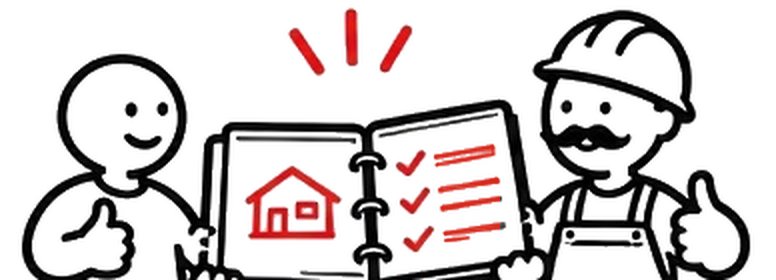
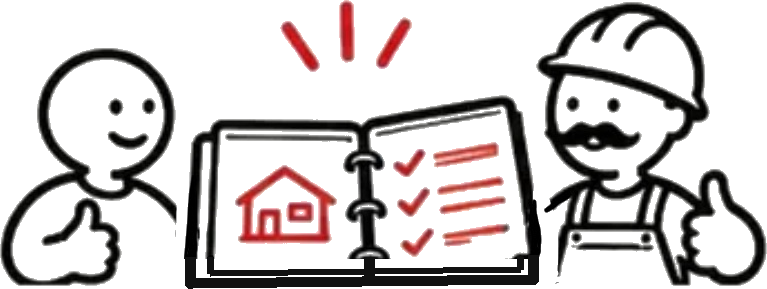
Draft: cleaned binder bottom in Instructions figure
Claude-Session: https://claude.ai/code/session_01EwRfVRwqpTJVtze869hkia

diff --git a/services/apartment-design/index.html b/services/apartment-design/index.html
@@ -57,7 +57,7 @@
     <h2 class="s-12">Идея, картинка или инструкция</h2>
     <div class="s-4 gains pkg-card"><figure class="pkg-ill"><img src="../../assets/img/pkg/fig-idea.png" alt="" width="199" height="121" style="width:199px"></figure><h3 class="pkg-name">Идея</h3><p class="pkg-subt">Рисуем, как вы будете жить</p><p class="label pkg-meta">Простой · от 9,6 $/м² · от 1 до 2 недель</p><p class="pkg-count">Чтобы понять, как будет устроено ваше пространство</p><p class="pkg-tag">Минимальный набор</p><ul class="pkg-matrix"><li class="pkg-m"><img src="../../assets/img/pkg/i-plan.svg" alt="" width="34" height="34"><span>Планировка</span></li><li class="pkg-m"><img src="../../assets/img/pkg/i-ai.svg" alt="" width="34" height="34"><span>AI-эскиз</span></li><li class="pkg-m off"><img src="../../assets/img/pkg/i-3d.svg" alt="" width="34" height="34"><span>3D</span></li><li class="pkg-m off"><img src="../../assets/img/pkg/i-elev.svg" alt="" width="34" height="34"><span>Развёртки</span></li><li class="pkg-m off"><img src="../../assets/img/pkg/i-finish.svg" alt="" width="34" height="34"><span>Отделка</span></li><li class="pkg-m off"><img src="../../assets/img/pkg/i-elec.svg" alt="" width="34" height="34"><span>Электрика</span></li><li class="pkg-m off"><img src="../../assets/img/pkg/i-plumb.svg" alt="" width="34" height="34"><span>Сантехника</span></li><li class="pkg-m off"><img src="../../assets/img/pkg/i-furn.svg" alt="" width="34" height="34"><span>Подбор мебели</span></li></ul><ul class="pkg-list"><li>Обмерный план по вашим замерам или плану БТИ</li><li>До 2 вариантов планировочного решения с расстановкой мебели</li><li>AI-эскизы каждого помещения для поиска стиля и атмосферы</li><li>До 3 раундов правок</li></ul><p class="pkg-note muted">Подвинуть шкаф на полметра считается правкой, а не новой планировкой. Шкафы мы двигаем с удовольствием.</p><p class="pkg-btn"><a class="btn" href="../../index.html?pkg=Идея#brief" data-pkg="Идея">Выбрать «Идея» →</a></p></div>
     <div class="s-4 gains pkg-card gains--featured" data-badge="Популярный"><figure class="pkg-ill"><img src="../../assets/img/pkg/fig-picture.png" alt="" width="231" height="116" style="width:231px"></figure><h3 class="pkg-name">Картинка</h3><p class="pkg-subt">Смотрим, как это будет выглядеть</p><p class="label pkg-meta">Базовый · от 14,7 $/м² · от 2 до 3 недель</p><p class="pkg-count"><b>От 15 листов,</b><br>чтобы увидеть будущий интерьер</p><p class="pkg-tag">Базовый комплект чертежей без инженерии</p><ul class="pkg-matrix"><li class="pkg-m"><img src="../../assets/img/pkg/i-plan.svg" alt="" width="34" height="34"><span>Планировка</span></li><li class="pkg-m"><img src="../../assets/img/pkg/i-ai.svg" alt="" width="34" height="34"><span>AI-эскиз</span></li><li class="pkg-m"><img src="../../assets/img/pkg/i-3d.svg" alt="" width="34" height="34"><span>3D</span></li><li class="pkg-m"><img src="../../assets/img/pkg/i-elev.svg" alt="" width="34" height="34"><span>Развёртки</span></li><li class="pkg-m off"><img src="../../assets/img/pkg/i-finish.svg" alt="" width="34" height="34"><span>Отделка</span></li><li class="pkg-m off"><img src="../../assets/img/pkg/i-elec.svg" alt="" width="34" height="34"><span>Электрика</span></li><li class="pkg-m off"><img src="../../assets/img/pkg/i-plumb.svg" alt="" width="34" height="34"><span>Сантехника</span></li><li class="pkg-m off"><img src="../../assets/img/pkg/i-furn.svg" alt="" width="34" height="34"><span>Подбор мебели</span></li></ul><ul class="pkg-list"><li>Всё, что входит в «Идею»</li><li>До 3 вариантов планировочного решения с расстановкой мебели</li><li>1 концепция интерьера</li><li>3D-визуализации всех помещений, по 2 ракурса на каждое</li><li>Развёртки стен без инженерных схем</li><li>До 3 раундов правок</li></ul><p class="pkg-btn"><a class="btn btn--signal" href="../../index.html?pkg=Картинка#brief" data-pkg="Картинка">Выбрать «Картинка» →</a></p></div>
-    <div class="s-4 gains pkg-card"><figure class="pkg-ill"><img src="../../assets/img/pkg/fig-instructions.png" alt="" width="303" height="110" style="width:303px"></figure><h3 class="pkg-name">Инструкция</h3><p class="pkg-subt">Передаём всё необходимое для реализации</p><p class="label pkg-meta">Полный · от 19,3 $/м² · от 4 до 5 недель</p><p class="pkg-count"><b>От 27 листов,</b><br>чтобы строить без догадок</p><p class="pkg-tag">Полный комплект документации для реализации</p><ul class="pkg-matrix"><li class="pkg-m"><img src="../../assets/img/pkg/i-plan.svg" alt="" width="34" height="34"><span>Планировка</span></li><li class="pkg-m"><img src="../../assets/img/pkg/i-ai.svg" alt="" width="34" height="34"><span>AI-эскиз</span></li><li class="pkg-m"><img src="../../assets/img/pkg/i-3d.svg" alt="" width="34" height="34"><span>3D</span></li><li class="pkg-m"><img src="../../assets/img/pkg/i-elev.svg" alt="" width="34" height="34"><span>Развёртки</span></li><li class="pkg-m"><img src="../../assets/img/pkg/i-finish.svg" alt="" width="34" height="34"><span>Отделка</span></li><li class="pkg-m"><img src="../../assets/img/pkg/i-elec.svg" alt="" width="34" height="34"><span>Электрика</span></li><li class="pkg-m"><img src="../../assets/img/pkg/i-plumb.svg" alt="" width="34" height="34"><span>Сантехника</span></li><li class="pkg-m"><img src="../../assets/img/pkg/i-furn.svg" alt="" width="34" height="34"><span>Подбор мебели</span></li></ul><ul class="pkg-list"><li>Всё, что входит в «Картинку»</li><li>До 5 вариантов планировочного решения</li><li>2 концепции интерьера</li><li>По 3 или 4 ракурса каждого помещения и панорамы 360°</li><li>Развёртки стен с привязками инженерии</li><li>Отделка, электрика, тёплый пол и сантехника</li><li>Ведомости дверных проёмов и лючков, разрез</li><li>Подбор материалов и мебели со спецификацией</li><li>До 5 раундов правок</li></ul><p class="pkg-note muted">Хотите больше вариантов? Сделаю их дополнительно, стоимость обсудим.</p><p class="pkg-btn"><a class="btn" href="../../index.html?pkg=Инструкция#brief" data-pkg="Инструкция">Выбрать «Инструкция» →</a></p></div>
+    <div class="s-4 gains pkg-card"><figure class="pkg-ill"><img src="../../assets/img/pkg/fig-instructions.png" alt="" width="299" height="113" style="width:299px"></figure><h3 class="pkg-name">Инструкция</h3><p class="pkg-subt">Передаём всё необходимое для реализации</p><p class="label pkg-meta">Полный · от 19,3 $/м² · от 4 до 5 недель</p><p class="pkg-count"><b>От 27 листов,</b><br>чтобы строить без догадок</p><p class="pkg-tag">Полный комплект документации для реализации</p><ul class="pkg-matrix"><li class="pkg-m"><img src="../../assets/img/pkg/i-plan.svg" alt="" width="34" height="34"><span>Планировка</span></li><li class="pkg-m"><img src="../../assets/img/pkg/i-ai.svg" alt="" width="34" height="34"><span>AI-эскиз</span></li><li class="pkg-m"><img src="../../assets/img/pkg/i-3d.svg" alt="" width="34" height="34"><span>3D</span></li><li class="pkg-m"><img src="../../assets/img/pkg/i-elev.svg" alt="" width="34" height="34"><span>Развёртки</span></li><li class="pkg-m"><img src="../../assets/img/pkg/i-finish.svg" alt="" width="34" height="34"><span>Отделка</span></li><li class="pkg-m"><img src="../../assets/img/pkg/i-elec.svg" alt="" width="34" height="34"><span>Электрика</span></li><li class="pkg-m"><img src="../../assets/img/pkg/i-plumb.svg" alt="" width="34" height="34"><span>Сантехника</span></li><li class="pkg-m"><img src="../../assets/img/pkg/i-furn.svg" alt="" width="34" height="34"><span>Подбор мебели</span></li></ul><ul class="pkg-list"><li>Всё, что входит в «Картинку»</li><li>До 5 вариантов планировочного решения</li><li>2 концепции интерьера</li><li>По 3 или 4 ракурса каждого помещения и панорамы 360°</li><li>Развёртки стен с привязками инженерии</li><li>Отделка, электрика, тёплый пол и сантехника</li><li>Ведомости дверных проёмов и лючков, разрез</li><li>Подбор материалов и мебели со спецификацией</li><li>До 5 раундов правок</li></ul><p class="pkg-note muted">Хотите больше вариантов? Сделаю их дополнительно, стоимость обсудим.</p><p class="pkg-btn"><a class="btn" href="../../index.html?pkg=Инструкция#brief" data-pkg="Инструкция">Выбрать «Инструкция» →</a></p></div>
     <p class="s-12 muted">Цена ниже рынка, потому что рутину считает BIM-модель, а не человек. Все листы собираются из одной модели, поэтому размеры сходятся.</p>
     <div class="s-12 pkg-wrap"><p class="label">Что входит в каждый пакет</p><table class="pkg">
 <thead><tr><th>Блок работ</th><th class="c">Идея<small>простой</small></th><th class="c f">Картинка<small>базовый</small></th><th class="c">Инструкция<small>полный</small></th></tr></thead>

diff --git a/en/services/apartment-design/index.html b/en/services/apartment-design/index.html
@@ -57,7 +57,7 @@
     <h2 class="s-12">Idea, Picture or Instructions</h2>
     <div class="s-4 gains pkg-card"><figure class="pkg-ill"><img src="../../../assets/img/pkg/fig-idea.png" alt="" width="199" height="121" style="width:199px"></figure><h3 class="pkg-name">Idea</h3><p class="pkg-subt">We sketch how you will live</p><p class="label pkg-meta">Basic · from $9.6/m² · 1 to 2 weeks</p><p class="pkg-count">To understand how your space will work</p><p class="pkg-tag">Minimal set</p><ul class="pkg-matrix"><li class="pkg-m"><img src="../../../assets/img/pkg/i-plan.svg" alt="" width="34" height="34"><span>Layout</span></li><li class="pkg-m"><img src="../../../assets/img/pkg/i-ai.svg" alt="" width="34" height="34"><span>AI sketch</span></li><li class="pkg-m off"><img src="../../../assets/img/pkg/i-3d.svg" alt="" width="34" height="34"><span>3D</span></li><li class="pkg-m off"><img src="../../../assets/img/pkg/i-elev.svg" alt="" width="34" height="34"><span>Elevations</span></li><li class="pkg-m off"><img src="../../../assets/img/pkg/i-finish.svg" alt="" width="34" height="34"><span>Finishes</span></li><li class="pkg-m off"><img src="../../../assets/img/pkg/i-elec.svg" alt="" width="34" height="34"><span>Electrical</span></li><li class="pkg-m off"><img src="../../../assets/img/pkg/i-plumb.svg" alt="" width="34" height="34"><span>Plumbing</span></li><li class="pkg-m off"><img src="../../../assets/img/pkg/i-furn.svg" alt="" width="34" height="34"><span>Furniture</span></li></ul><ul class="pkg-list"><li>Measured plan from your measurements or the BTI plan</li><li>Up to 2 layout options with furniture arrangement</li><li>AI sketches of every room to find the style and mood</li><li>Up to 3 rounds of revisions</li></ul><p class="pkg-note muted">Moving a wardrobe half a metre is a revision, not a new layout. We are always happy to move wardrobes.</p><p class="pkg-btn"><a class="btn" href="../../index.html?pkg=Idea#brief" data-pkg="Idea">Choose Idea →</a></p></div>
     <div class="s-4 gains pkg-card gains--featured" data-badge="Popular"><figure class="pkg-ill"><img src="../../../assets/img/pkg/fig-picture.png" alt="" width="231" height="116" style="width:231px"></figure><h3 class="pkg-name">Picture</h3><p class="pkg-subt">We see how it will look</p><p class="label pkg-meta">Standard · from $14.7/m² · 2 to 3 weeks</p><p class="pkg-count"><b>From 15 sheets,</b><br>to see your future interior</p><p class="pkg-tag">Basic drawing set without engineering</p><ul class="pkg-matrix"><li class="pkg-m"><img src="../../../assets/img/pkg/i-plan.svg" alt="" width="34" height="34"><span>Layout</span></li><li class="pkg-m"><img src="../../../assets/img/pkg/i-ai.svg" alt="" width="34" height="34"><span>AI sketch</span></li><li class="pkg-m"><img src="../../../assets/img/pkg/i-3d.svg" alt="" width="34" height="34"><span>3D</span></li><li class="pkg-m"><img src="../../../assets/img/pkg/i-elev.svg" alt="" width="34" height="34"><span>Elevations</span></li><li class="pkg-m off"><img src="../../../assets/img/pkg/i-finish.svg" alt="" width="34" height="34"><span>Finishes</span></li><li class="pkg-m off"><img src="../../../assets/img/pkg/i-elec.svg" alt="" width="34" height="34"><span>Electrical</span></li><li class="pkg-m off"><img src="../../../assets/img/pkg/i-plumb.svg" alt="" width="34" height="34"><span>Plumbing</span></li><li class="pkg-m off"><img src="../../../assets/img/pkg/i-furn.svg" alt="" width="34" height="34"><span>Furniture</span></li></ul><ul class="pkg-list"><li>Everything in Idea</li><li>Up to 3 layout options with furniture arrangement</li><li>1 interior concept</li><li>3D visualisations of every room, 2 views each</li><li>Wall elevations without engineering</li><li>Up to 3 rounds of revisions</li></ul><p class="pkg-btn"><a class="btn btn--signal" href="../../index.html?pkg=Picture#brief" data-pkg="Picture">Choose Picture →</a></p></div>
-    <div class="s-4 gains pkg-card"><figure class="pkg-ill"><img src="../../../assets/img/pkg/fig-instructions.png" alt="" width="303" height="110" style="width:303px"></figure><h3 class="pkg-name">Instructions</h3><p class="pkg-subt">We hand over everything needed to build</p><p class="label pkg-meta">Full · from $19.3/m² · 4 to 5 weeks</p><p class="pkg-count"><b>From 27 sheets,</b><br>to build without guesswork</p><p class="pkg-tag">Complete documentation for the build</p><ul class="pkg-matrix"><li class="pkg-m"><img src="../../../assets/img/pkg/i-plan.svg" alt="" width="34" height="34"><span>Layout</span></li><li class="pkg-m"><img src="../../../assets/img/pkg/i-ai.svg" alt="" width="34" height="34"><span>AI sketch</span></li><li class="pkg-m"><img src="../../../assets/img/pkg/i-3d.svg" alt="" width="34" height="34"><span>3D</span></li><li class="pkg-m"><img src="../../../assets/img/pkg/i-elev.svg" alt="" width="34" height="34"><span>Elevations</span></li><li class="pkg-m"><img src="../../../assets/img/pkg/i-finish.svg" alt="" width="34" height="34"><span>Finishes</span></li><li class="pkg-m"><img src="../../../assets/img/pkg/i-elec.svg" alt="" width="34" height="34"><span>Electrical</span></li><li class="pkg-m"><img src="../../../assets/img/pkg/i-plumb.svg" alt="" width="34" height="34"><span>Plumbing</span></li><li class="pkg-m"><img src="../../../assets/img/pkg/i-furn.svg" alt="" width="34" height="34"><span>Furniture</span></li></ul><ul class="pkg-list"><li>Everything in Picture</li><li>Up to 5 layout options</li><li>2 interior concepts</li><li>3 or 4 views of every room and 360° panoramas</li><li>Wall elevations with engineering setting-out</li><li>Finishes, electrical, underfloor heating and plumbing</li><li>Door opening and access hatch schedules, section</li><li>Selection of materials and furniture with a specification</li><li>Up to 5 rounds of revisions</li></ul><p class="pkg-note muted">Need more options? I will make them separately, we will agree on the cost.</p><p class="pkg-btn"><a class="btn" href="../../index.html?pkg=Instructions#brief" data-pkg="Instructions">Choose Instructions →</a></p></div>
+    <div class="s-4 gains pkg-card"><figure class="pkg-ill"><img src="../../../assets/img/pkg/fig-instructions.png" alt="" width="299" height="113" style="width:299px"></figure><h3 class="pkg-name">Instructions</h3><p class="pkg-subt">We hand over everything needed to build</p><p class="label pkg-meta">Full · from $19.3/m² · 4 to 5 weeks</p><p class="pkg-count"><b>From 27 sheets,</b><br>to build without guesswork</p><p class="pkg-tag">Complete documentation for the build</p><ul class="pkg-matrix"><li class="pkg-m"><img src="../../../assets/img/pkg/i-plan.svg" alt="" width="34" height="34"><span>Layout</span></li><li class="pkg-m"><img src="../../../assets/img/pkg/i-ai.svg" alt="" width="34" height="34"><span>AI sketch</span></li><li class="pkg-m"><img src="../../../assets/img/pkg/i-3d.svg" alt="" width="34" height="34"><span>3D</span></li><li class="pkg-m"><img src="../../../assets/img/pkg/i-elev.svg" alt="" width="34" height="34"><span>Elevations</span></li><li class="pkg-m"><img src="../../../assets/img/pkg/i-finish.svg" alt="" width="34" height="34"><span>Finishes</span></li><li class="pkg-m"><img src="../../../assets/img/pkg/i-elec.svg" alt="" width="34" height="34"><span>Electrical</span></li><li class="pkg-m"><img src="../../../assets/img/pkg/i-plumb.svg" alt="" width="34" height="34"><span>Plumbing</span></li><li class="pkg-m"><img src="../../../assets/img/pkg/i-furn.svg" alt="" width="34" height="34"><span>Furniture</span></li></ul><ul class="pkg-list"><li>Everything in Picture</li><li>Up to 5 layout options</li><li>2 interior concepts</li><li>3 or 4 views of every room and 360° panoramas</li><li>Wall elevations with engineering setting-out</li><li>Finishes, electrical, underfloor heating and plumbing</li><li>Door opening and access hatch schedules, section</li><li>Selection of materials and furniture with a specification</li><li>Up to 5 rounds of revisions</li></ul><p class="pkg-note muted">Need more options? I will make them separately, we will agree on the cost.</p><p class="pkg-btn"><a class="btn" href="../../index.html?pkg=Instructions#brief" data-pkg="Instructions">Choose Instructions →</a></p></div>
     <p class="s-12 muted">The price is below market because the routine is calculated by the BIM model, not by hand. All sheets come from one model, so dimensions always match.</p>
     <div class="s-12 pkg-wrap"><p class="label">What each package includes</p><table class="pkg">
 <thead><tr><th>Scope</th><th class="c">Idea<small>basic</small></th><th class="c f">Picture<small>standard</small></th><th class="c">Instructions<small>full</small></th></tr></thead>
